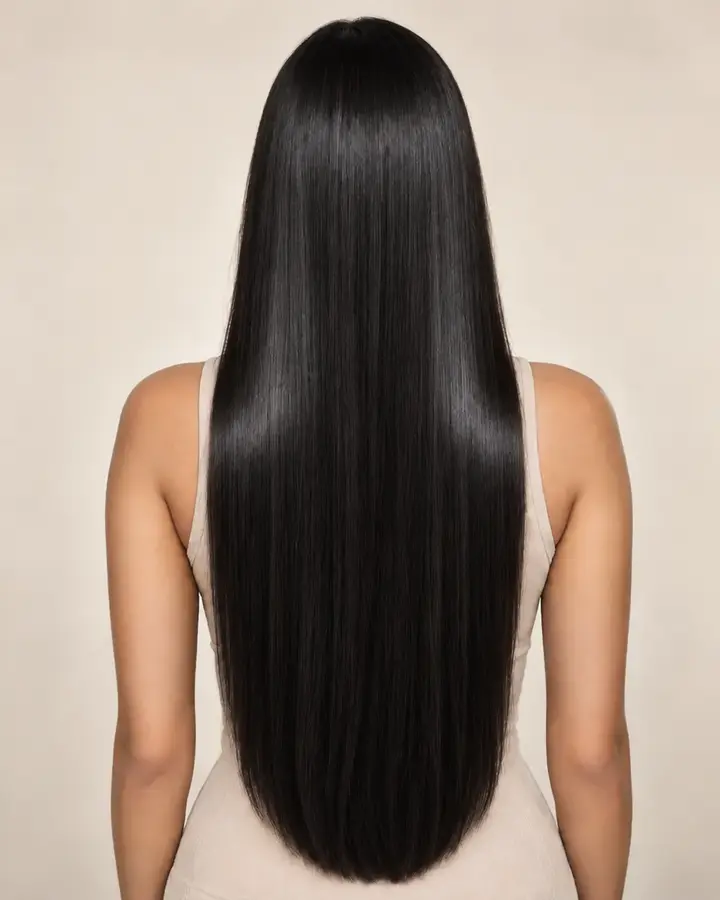
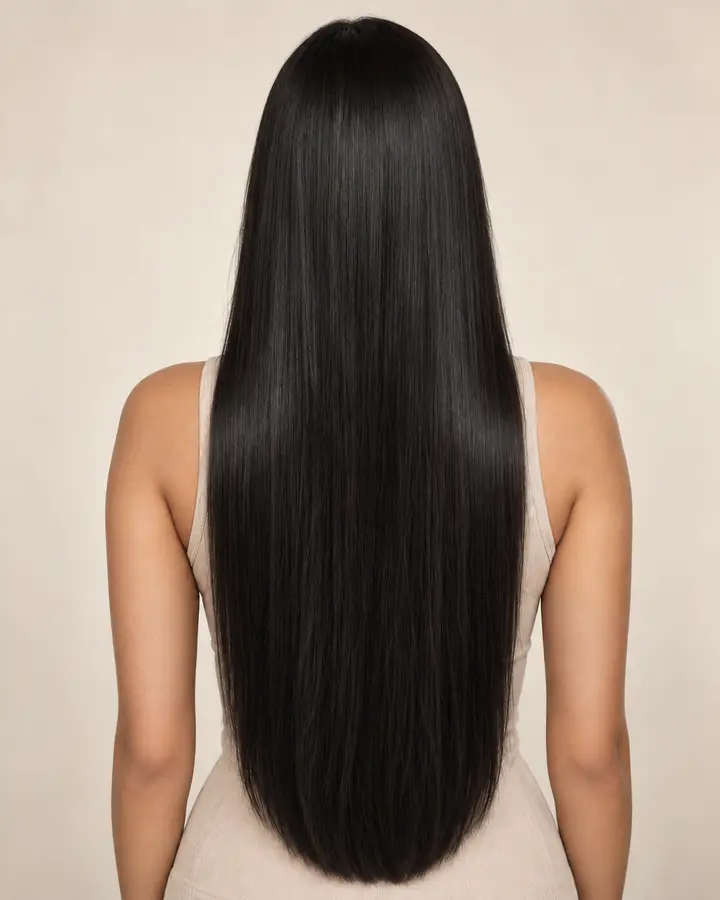
Expand exact hair and nail Beauty DNA combinations

diff --git a/public/beauty-dna-package/index.html b/public/beauty-dna-package/index.html
@@ -52,10 +52,17 @@ lashes:{Design:{Natural:"lashes-hybrid.webp","Cat Eye":"lashes-cat-eye.webp",Wis
 const anchor={hair:"Length",nails:"Shape",brows:"Shape",lashes:"Type"};
 function img(group,category=cat){return A+files[category][group][s[category][group]]}
 function slug(value){return value.toLowerCase().replace(/\+/g,"plus").replace(/[^a-z0-9]+/g,"-").replace(/^-|-$/g,"")}
+const exactLongHair=new Set([
+  "long/straight/black","long/straight/blonde","long/straight/copper","long/straight/dark-brown",
+  "long/straight/light-brown","long/straight/light-brown-plus-highlights","long/straight/balayage",
+  "long/straight/dark-brown-plus-almond-highlights","long/soft-waves/dark-brown",
+  "long/defined-waves/dark-brown","long/curls/dark-brown","long/blowout/dark-brown"
+]);
 const exactNails=new Set([
   "short/round/red","short/round/french","short/round/funny-bunny",
   "medium/almond/burgundy","medium/almond/mocha-chrome","medium/square/funny-bunny",
-  "long/almond/funny-bunny","long/coffin/funny-bunny"
+  "long/almond/red","long/almond/french","long/almond/burgundy","long/almond/funny-bunny",
+  "long/almond/mocha-chrome","long/coffin/red","long/coffin/funny-bunny"
 ]);
 const exactLashes=new Set([
   "natural/classic/medium","natural/hybrid/short","natural/hybrid/medium","natural/hybrid/long",
@@ -67,7 +74,10 @@ const exactBrows=new Set([
   "straight/medium/dark-brown","defined/medium/dark-brown","high-arch/medium/dark-brown"
 ]);
 function comboImg(category=cat){
-  if(category==="hair"&&s.hair.Length==="Long"&&s.hair.Texture==="Straight"&&s.hair.Color==="Black")return "/beauty-dna-package/matrix/hair/long/straight/black.webp";
+  if(category==="hair"&&s.hair.Length==="Long"){
+    const key=[s.hair.Length,s.hair.Texture,s.hair.Color].map(slug).join("/");
+    if(exactLongHair.has(key))return "/beauty-dna-package/matrix/hair/"+key+".webp";
+  }
   if(category==="hair"&&s.hair.Length==="Short"&&s.hair.Texture==="Straight"){
     if(s.hair.Color==="Dark Brown")return A+"hair-length-short.webp";
     return "/beauty-dna-package/matrix/hair/short/straight/"+slug(s.hair.Color)+".png";
